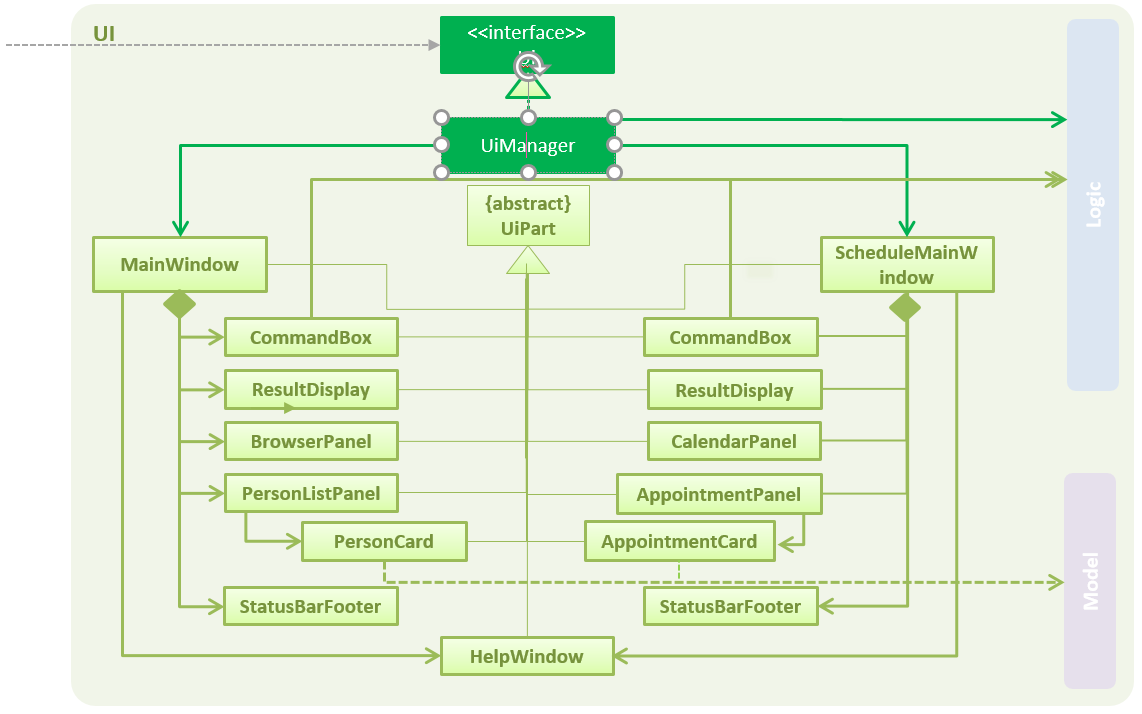
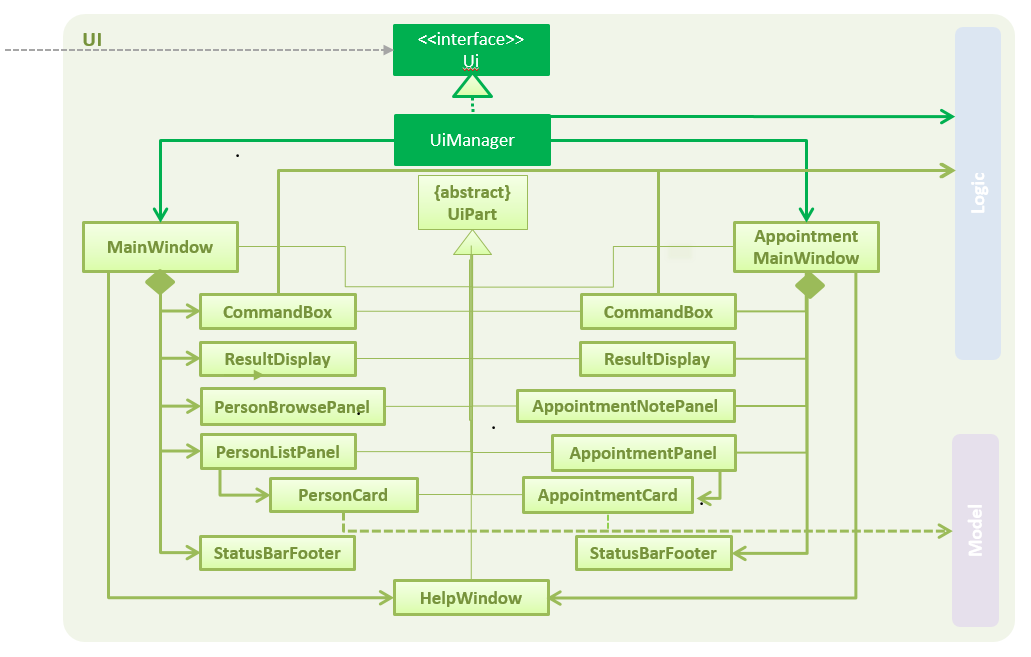
Rebuild pages at ef1dce15dd784d77654c74aba8825f2cd5b56986

Changed region(s): [[0.0, 0.0, 0.9622, 0.9437], [0.5897, 0.3653, 0.6518, 0.3957]]

diff --git a/DeveloperGuide.html b/DeveloperGuide.html
@@ -611,13 +611,53 @@ As a more OOP addressBookModel, we can store a <code>Tag</code> list in <code>Ad
 <div class="sect2">
 <h3 id="on-the-fly-switching-between-modes"><a class="link" href="#on-the-fly-switching-between-modes">3.1. On-the-fly Switching between Modes</a></h3>
 <div class="paragraph">
-<p>Switching between patient management and appointment management modes is implemted within the <code>UiManager</code> class.
-This class maintains an instance of both <code>MainWindow</code> and <code>ScheduleMainWindow</code> objects. A <code>ModeChangeEvent</code> will be
-raised and passed to the <code>EventCenter</code>, which calls <code>hide()</code> on the window associated with the current mode,
-and <code>show()</code> on that of the desired mode.</p>
+<p>This feature enables the software to separate patient information from appointment information clearly. The two modes
+are <code>patient management mode</code> and <code>appointment management mode</code>. Users can switch between one mode to the other mode using
+<code>mode command</code>. In addition, the feature supports auto-switch function. In other words, when user type in a valid command
+(add, delete, select, find or edit) to manipulate appointments in patient mode, the software will switch to appointment
+mode automatically, and vice versa.</p>
 </div>
 <div class="paragraph">
-<p><code>MainWindow</code>, displaying the patient management interface, is shown on application startup.</p>
+<p>The switching feature is mainly implemented using the eventbus and subscriber approach. The main logic of the switch is
+implemented inside the UiManager class.The UiManager class maintains an instance of each patient mode window and appointment
+mode window and each has an unique stage. When the software is initialised, both windows are initialised, but only the
+patient window is shown as it is the default mode.</p>
+</div>
+<div class="paragraph">
+<p>There are three steps involved in the processing of the switch feature:</p>
+</div>
+<div class="paragraph">
+<p>Step 1. Event Post: When user types in a <code>mode command</code>,the ModeCommand will post a switchToPatientEvent or
+SwitchToAppointmentEvent to the event center.</p>
+</div>
+<div class="paragraph">
+<p>Step 2. Event Handle: UiManager is registered as an event handler. It subscribes from the events center and call
+relevant method (switchToPatient or switchToAppointment).</p>
+</div>
+<div class="paragraph">
+<p>Step 3. Handle Switch: Inside the switch methods, the current window will be hided and the other window will be shown.</p>
+</div>
+<div class="admonitionblock note">
+<table>
+<tr>
+<td class="icon">
+<i class="fa icon-note" title="Note"></i>
+</td>
+<td class="content">
+The implementation allows the window to know whether it is at the showing state. This is mainly to solve the problem
+that help window is initialised from both windows when <code>help command</code> is called. Hence, when switch methods are called,
+the showing state of the windows should also be updated. In addition, the feature that each window knows its showing
+state is also helpful for future refinements.
+</td>
+</tr>
+</table>
+</div>
+<div class="paragraph">
+<p>The auto-switch feature is implemented using similar approach. When a valid command is executed, a event is posted to the
+event center to switch to the corresponding mode. The way switch method is implemented allows the current showing window
+not to be checked. For now, when user switch from patient mode to patient mode, the method will still be called but
+it does not reflect any change in the UI. One way to refine is to allow software to check the current showing state and
+if user switch from one mode to the same mode, an exception will be thrown. This implementation is, however, not very necessary.</p>
 </div>
 </div>
 <div class="sect2">
@@ -2543,4 +2583,4 @@ Expected: Similar to previous.</p>
 </div>
 </div>
 </div>
-</div></div><div id="footer"><div class="container"><div id="footer-text">Last updated 2018-11-07 12:25:07 UTC</div></div></div></body></html>
+</div></div><div id="footer"><div class="container"><div id="footer-text">Last updated 2018-11-07 13:43:37 UTC</div></div></div></body></html>

diff --git a/ContactUs.html b/ContactUs.html
@@ -12,4 +12,4 @@
 <p><strong>Email us</strong> : You can also reach us at <code>damith [at] comp.nus.edu.sg</code></p>
 </li>
 </ul>
-</div></div><div id="footer"><div class="container"><div id="footer-text">Last updated 2018-11-07 12:25:07 UTC</div></div></div></body></html>
+</div></div><div id="footer"><div class="container"><div id="footer-text">Last updated 2018-11-07 13:43:37 UTC</div></div></div></body></html>

diff --git a/LearningOutcomes.html b/LearningOutcomes.html
@@ -542,4 +542,4 @@ class gives some examples of how to use <em>Equivalence Partitions</em>, <em>Bou
 </div>
 </div>
 </div>
-</div></div><div id="footer"><div class="container"><div id="footer-text">Last updated 2018-11-07 12:25:07 UTC</div></div></div></body></html>
+</div></div><div id="footer"><div class="container"><div id="footer-text">Last updated 2018-11-07 13:43:37 UTC</div></div></div></body></html>

diff --git a/HelpWindow.html b/HelpWindow.html
@@ -957,4 +957,4 @@ Tip: Pressing up and down arrows will display the previous and next input respec
 </ul>
 </div>
 </div>
-</div></div><div id="footer"><div class="container"><div id="footer-text">Last updated 2018-11-07 12:25:07 UTC</div></div></div></body></html>
+</div></div><div id="footer"><div class="container"><div id="footer-text">Last updated 2018-11-07 13:43:37 UTC</div></div></div></body></html>

diff --git a/UserGuide.html b/UserGuide.html
@@ -957,4 +957,4 @@ Tip: Pressing up and down arrows will display the previous and next input respec
 </ul>
 </div>
 </div>
-</div></div><div id="footer"><div class="container"><div id="footer-text">Last updated 2018-11-07 12:25:07 UTC</div></div></div></body></html>
+</div></div><div id="footer"><div class="container"><div id="footer-text">Last updated 2018-11-07 13:43:37 UTC</div></div></div></body></html>

diff --git a/UsingGradle.html b/UsingGradle.html
@@ -255,4 +255,4 @@ See <code>build.gradle</code> &#8594; <code>allprojects</code> &#8594; <code>dep
 </ul>
 </div>
 </div>
-</div></div><div id="footer"><div class="container"><div id="footer-text">Last updated 2018-11-07 12:25:07 UTC</div></div></div></body></html>
+</div></div><div id="footer"><div class="container"><div id="footer-text">Last updated 2018-11-07 13:43:37 UTC</div></div></div></body></html>

diff --git a/UsingNetlify.html b/UsingNetlify.html
@@ -123,4 +123,4 @@ The publish directory is the directory in which the built HTML documentation res
 </ol>
 </div>
 </div>
-</div></div><div id="footer"><div class="container"><div id="footer-text">Last updated 2018-11-07 12:25:07 UTC</div></div></div></body></html>
+</div></div><div id="footer"><div class="container"><div id="footer-text">Last updated 2018-11-07 13:43:37 UTC</div></div></div></body></html>

diff --git a/UsingCoveralls.html b/UsingCoveralls.html
@@ -96,4 +96,4 @@ If you have not set up Travis CI, see <a href="UsingTravis.html">UsingTravis.ado
 </ol>
 </div>
 </div>
-</div></div><div id="footer"><div class="container"><div id="footer-text">Last updated 2018-11-07 12:25:07 UTC</div></div></div></body></html>
+</div></div><div id="footer"><div class="container"><div id="footer-text">Last updated 2018-11-07 13:43:37 UTC</div></div></div></body></html>

diff --git a/team/johndoe.html b/team/johndoe.html
@@ -240,4 +240,4 @@
 <p><em>{Optionally, you may include other projects in your portfolio.}</em></p>
 </div>
 </div>
-</div></div><div id="footer"><div class="container"><div id="footer-text">Last updated 2018-11-07 12:25:07 UTC</div></div></div></body></html>
+</div></div><div id="footer"><div class="container"><div id="footer-text">Last updated 2018-11-07 13:43:37 UTC</div></div></div></body></html>

diff --git a/UsingTravis.html b/UsingTravis.html
@@ -280,4 +280,4 @@ Suggested change: Remove the codacy badge from <code>README</code>.</p>
 </div>
 </div>
 </div>
-</div></div><div id="footer"><div class="container"><div id="footer-text">Last updated 2018-11-07 12:25:07 UTC</div></div></div></body></html>
+</div></div><div id="footer"><div class="container"><div id="footer-text">Last updated 2018-11-07 13:43:37 UTC</div></div></div></body></html>

diff --git a/UsingCheckstyle.html b/UsingCheckstyle.html
@@ -91,4 +91,4 @@ Restart the IDE to complete the installation.</p>
 </ul>
 </div>
 </div>
-</div></div><div id="footer"><div class="container"><div id="footer-text">Last updated 2018-11-07 12:25:07 UTC</div></div></div></body></html>
+</div></div><div id="footer"><div class="container"><div id="footer-text">Last updated 2018-11-07 13:43:37 UTC</div></div></div></body></html>

diff --git a/AboutUs.html b/AboutUs.html
@@ -93,4 +93,4 @@ Responsibilities: UI</p>
 <hr>
 </div>
 </div>
-</div></div><div id="footer"><div class="container"><div id="footer-text">Last updated 2018-11-07 12:25:07 UTC</div></div></div></body></html>
+</div></div><div id="footer"><div class="container"><div id="footer-text">Last updated 2018-11-07 13:43:37 UTC</div></div></div></body></html>
